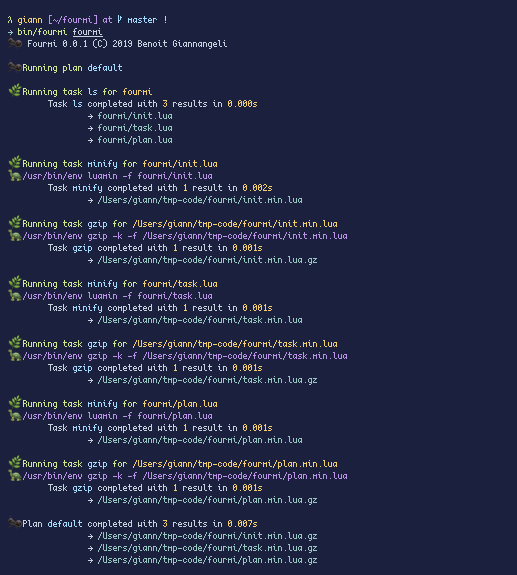
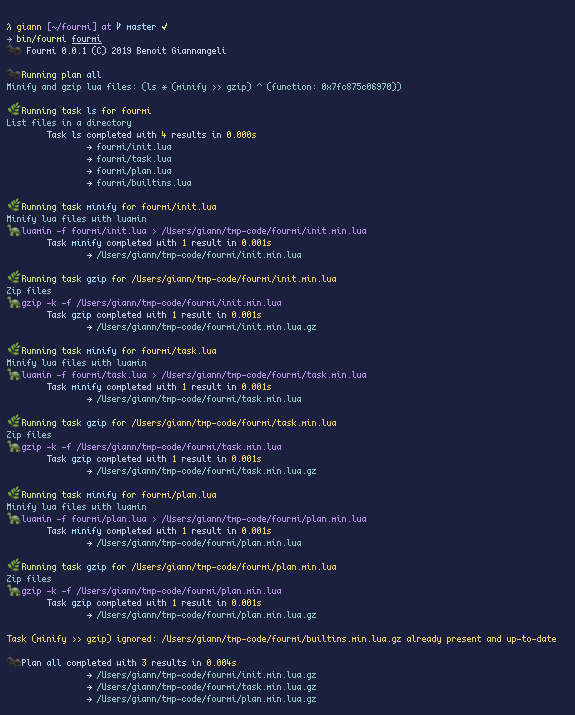
shtask: a task that runs a single command

Changed region(s): [[0.0, 0.0296, 0.9594, 1.0], [0.4642, 0.1183, 0.6809, 0.1478]]

diff --git a/doc/modules/fourmi.builtins.html b/doc/modules/fourmi.builtins.html
@@ -38,8 +38,8 @@
 
 <h2>Modules</h2>
 <ul class="nowrap">
-  <li><a href="../modules/fourmi.builtins.html">fourmi.builtins</a></li>
-  <li><strong>fourmi</strong></li>
+  <li><strong>fourmi.builtins</strong></li>
+  <li><a href="../modules/fourmi.html">fourmi</a></li>
 </ul>
 <h2>Classes</h2>
 <ul class="nowrap">
@@ -51,7 +51,7 @@
 
 <div id="content">
 
-<h1>Module <code>fourmi</code></h1>
+<h1>Module <code>fourmi.builtins</code></h1>
 <p>Main fourmi module</p>
 <p></p>
     <h3>Info:</h3>
@@ -65,8 +65,12 @@
 <h2><a href="#Functions">Functions</a></h2>
 <table class="function_list">
 	<tr>
-	<td class="name" nowrap><a href="#fourmi.builtins.shtask">fourmi.builtins.shtask (command, ...)</a></td>
-	<td class="summary">Create a task that runs a single shell command</td>
+	<td class="name" nowrap><a href="#sh">sh (program, ...)</a></td>
+	<td class="summary">Runs a command captures stderr and returns it as error message</td>
+	</tr>
+	<tr>
+	<td class="name" nowrap><a href="#outdated">outdated (original, target)</a></td>
+	<td class="summary">Returns true if a file is outdated</td>
 	</tr>
 </table>
 
@@ -78,31 +82,62 @@
 
     <dl class="function">
     <dt>
-    <a name = "fourmi.builtins.shtask"></a>
-    <strong>fourmi.builtins.shtask (command, ...)</strong>
+    <a name = "sh"></a>
+    <strong>sh (program, ...)</strong>
     </dt>
     <dd>
-    Create a task that runs a single shell command
+    Runs a command captures stderr and returns it as error message
 
 
     <h3>Parameters:</h3>
     <ul>
-        <li><span class="parameter">command</span>
+        <li><span class="parameter">program</span>
             <span class="types"><a class="type" href="https://www.lua.org/manual/5.3/manual.html#6.4">string</a></span>
-
+         command to run
         </li>
         <li><span class="parameter">...</span>
             <span class="types"><a class="type" href="https://www.lua.org/manual/5.3/manual.html#6.4">string</a></span>
-
+         program arguments If an arguments contains spaces it'll be quoted
         </li>
     </ul>
 
     <h3>Returns:</h3>
     <ol>
 
-           <span class="types"><a class="type" href="../classes/task.html#">task</a></span>
-
+           <span class="types"><span class="type">boolean</span></span>
+        true if command succeded
     </ol>
+     <h3>Or</h3>
+    <ol>
+
+           <span class="types"><a class="type" href="https://www.lua.org/manual/5.3/manual.html#6.4">string</a></span>
+        message in case of failure
+    </ol>
+
+
+
+
+</dd>
+    <dt>
+    <a name = "outdated"></a>
+    <strong>outdated (original, target)</strong>
+    </dt>
+    <dd>
+    Returns true if a file is outdated
+
+
+    <h3>Parameters:</h3>
+    <ul>
+        <li><span class="parameter">original</span>
+            <span class="types"><a class="type" href="https://www.lua.org/manual/5.3/manual.html#6.4">string</a></span>
+         If alone checks that it exists
+        </li>
+        <li><span class="parameter">target</span>
+            <span class="types"><a class="type" href="https://www.lua.org/manual/5.3/manual.html#6.4">string</a></span>
+         Outdated if not present or older than original
+        </li>
+    </ul>
+
 
 
 

diff --git a/doc/classes/task.html b/doc/classes/task.html
@@ -44,6 +44,7 @@
 </ul>
 <h2>Modules</h2>
 <ul class="nowrap">
+  <li><a href="../modules/fourmi.builtins.html">fourmi.builtins</a></li>
   <li><a href="../modules/fourmi.html">fourmi</a></li>
 </ul>
 
@@ -85,7 +86,7 @@
 	<td class="summary">Pipes task1's output to task2 input</td>
 	</tr>
 	<tr>
-	<td class="name" nowrap><a href="#task:__shl">task:__shl (task1, task2)</a></td>
+	<td class="name" nowrap><a href="#task:__shl">task:__shl (task2, task1)</a></td>
 	<td class="summary">Pipes task2's output to task1 input</td>
 	</tr>
 	<tr>
@@ -112,7 +113,11 @@
 	<td class="summary">Set task's description</td>
 	</tr>
 	<tr>
-	<td class="name" nowrap><a href="#task:perform">task:perform (self, function)</a></td>
+	<td class="name" nowrap><a href="#task:name">task:name (self, name)</a></td>
+	<td class="summary">Set task's name</td>
+	</tr>
+	<tr>
+	<td class="name" nowrap><a href="#task:perform">task:perform (self, fn)</a></td>
 	<td class="summary">Set task's action</td>
 	</tr>
 	<tr>
@@ -285,7 +290,7 @@
 </dd>
     <dt>
     <a name = "task:__shl"></a>
-    <strong>task:__shl (task1, task2)</strong>
+    <strong>task:__shl (task2, task1)</strong>
     </dt>
     <dd>
     Pipes task2's output to task1 input
@@ -293,11 +298,11 @@
 
     <h3>Parameters:</h3>
     <ul>
-        <li><span class="parameter">task1</span>
+        <li><span class="parameter">task2</span>
             <span class="types"><a class="type" href="../classes/task.html#">task</a></span>
 
         </li>
-        <li><span class="parameter">task2</span>
+        <li><span class="parameter">task1</span>
             <span class="types"><a class="type" href="../classes/task.html#">task</a></span>
 
         </li>
@@ -461,8 +466,33 @@
 
 </dd>
     <dt>
+    <a name = "task:name"></a>
+    <strong>task:name (self, name)</strong>
+    </dt>
+    <dd>
+    Set task's name
+
+
+    <h3>Parameters:</h3>
+    <ul>
+        <li><span class="parameter">self</span>
+            <span class="types"><a class="type" href="../classes/task.html#">task</a></span>
+
+        </li>
+        <li><span class="parameter">name</span>
+            <span class="types"><a class="type" href="https://www.lua.org/manual/5.3/manual.html#6.4">string</a></span>
+
+        </li>
+    </ul>
+
+
+
+
+
+</dd>
+    <dt>
     <a name = "task:perform"></a>
-    <strong>task:perform (self, function)</strong>
+    <strong>task:perform (self, fn)</strong>
     </dt>
     <dd>
     Set task's action
@@ -474,9 +504,9 @@
             <span class="types"><a class="type" href="../classes/task.html#">task</a></span>
 
         </li>
-        <li><span class="parameter">function</span>
+        <li><span class="parameter">fn</span>
             <span class="types"><a class="type" href="https://www.lua.org/manual/5.3/manual.html#6.4">string</a></span>
-
+         function
         </li>
     </ul>
 
@@ -520,7 +550,7 @@
 </div> <!-- id="main" -->
 <div id="about">
 <i>generated by <a href="http://github.com/stevedonovan/LDoc">LDoc 1.4.6</a></i>
-<i style="float:right;">Last updated 2019-03-08 10:20:34 </i>
+<i style="float:right;">Last updated 2019-03-08 11:17:34 </i>
 </div> <!-- id="about" -->
 </div> <!-- id="container" -->
 </body>

diff --git a/doc/classes/plan.html b/doc/classes/plan.html
@@ -44,6 +44,7 @@
 </ul>
 <h2>Modules</h2>
 <ul class="nowrap">
+  <li><a href="../modules/fourmi.builtins.html">fourmi.builtins</a></li>
   <li><a href="../modules/fourmi.html">fourmi</a></li>
 </ul>
 
@@ -78,6 +79,10 @@
 	<tr>
 	<td class="name" nowrap><a href="#plan:description">plan:description (self, description)</a></td>
 	<td class="summary">Set plan's description</td>
+	</tr>
+	<tr>
+	<td class="name" nowrap><a href="#plan:name">plan:name (self, name)</a></td>
+	<td class="summary">Set plan's name</td>
 	</tr>
 </table>
 
@@ -167,6 +172,31 @@
 
 
 </dd>
+    <dt>
+    <a name = "plan:name"></a>
+    <strong>plan:name (self, name)</strong>
+    </dt>
+    <dd>
+    Set plan's name
+
+
+    <h3>Parameters:</h3>
+    <ul>
+        <li><span class="parameter">self</span>
+            <span class="types"><a class="type" href="../classes/plan.html#">plan</a></span>
+
+        </li>
+        <li><span class="parameter">name</span>
+            <span class="types"><a class="type" href="https://www.lua.org/manual/5.3/manual.html#6.4">string</a></span>
+
+        </li>
+    </ul>
+
+
+
+
+
+</dd>
 </dl>
 
 
@@ -174,7 +204,7 @@
 </div> <!-- id="main" -->
 <div id="about">
 <i>generated by <a href="http://github.com/stevedonovan/LDoc">LDoc 1.4.6</a></i>
-<i style="float:right;">Last updated 2019-03-08 10:20:34 </i>
+<i style="float:right;">Last updated 2019-03-08 11:17:34 </i>
 </div> <!-- id="about" -->
 </div> <!-- id="container" -->
 </body>

diff --git a/doc/index.html b/doc/index.html
@@ -31,6 +31,7 @@
 
 <h2>Modules</h2>
 <ul class="nowrap">
+  <li><a href="modules/fourmi.builtins.html">fourmi.builtins</a></li>
   <li><a href="modules/fourmi.html">fourmi</a></li>
 </ul>
 <h2>Classes</h2>
@@ -47,6 +48,10 @@
 
 <h2>Modules</h2>
 <table class="module_list">
+	<tr>
+		<td class="name"  nowrap><a href="modules/fourmi.builtins.html">fourmi.builtins</a></td>
+		<td class="summary">Main fourmi module</td>
+	</tr>
 	<tr>
 		<td class="name"  nowrap><a href="modules/fourmi.html">fourmi</a></td>
 		<td class="summary">Main fourmi module</td>
@@ -68,7 +73,7 @@
 </div> <!-- id="main" -->
 <div id="about">
 <i>generated by <a href="http://github.com/stevedonovan/LDoc">LDoc 1.4.6</a></i>
-<i style="float:right;">Last updated 2019-03-08 10:20:34 </i>
+<i style="float:right;">Last updated 2019-03-08 11:17:34 </i>
 </div> <!-- id="about" -->
 </div> <!-- id="container" -->
 </body>

diff --git a/README.md b/README.md
@@ -24,7 +24,7 @@ Requirements:
 Write a [fourmi.plan.lua](#plan) file in your project directory and then:
 
 ```bash
-# If `plan` is not provided, will run plan named `default`
+# If `plan` is not provided, will run plan named `all`
 fourmi [plan]
 ```
 
@@ -58,7 +58,7 @@ Here's an commented excerpt of [`fourmi.plan.lua`](https://github.com/giann/four
 ```lua
 return {
     -- Default plan to execute
-    plan "default"
+    plan "all"
         -- Define its task
         :task(
             -- List files that ends with `.lua`
